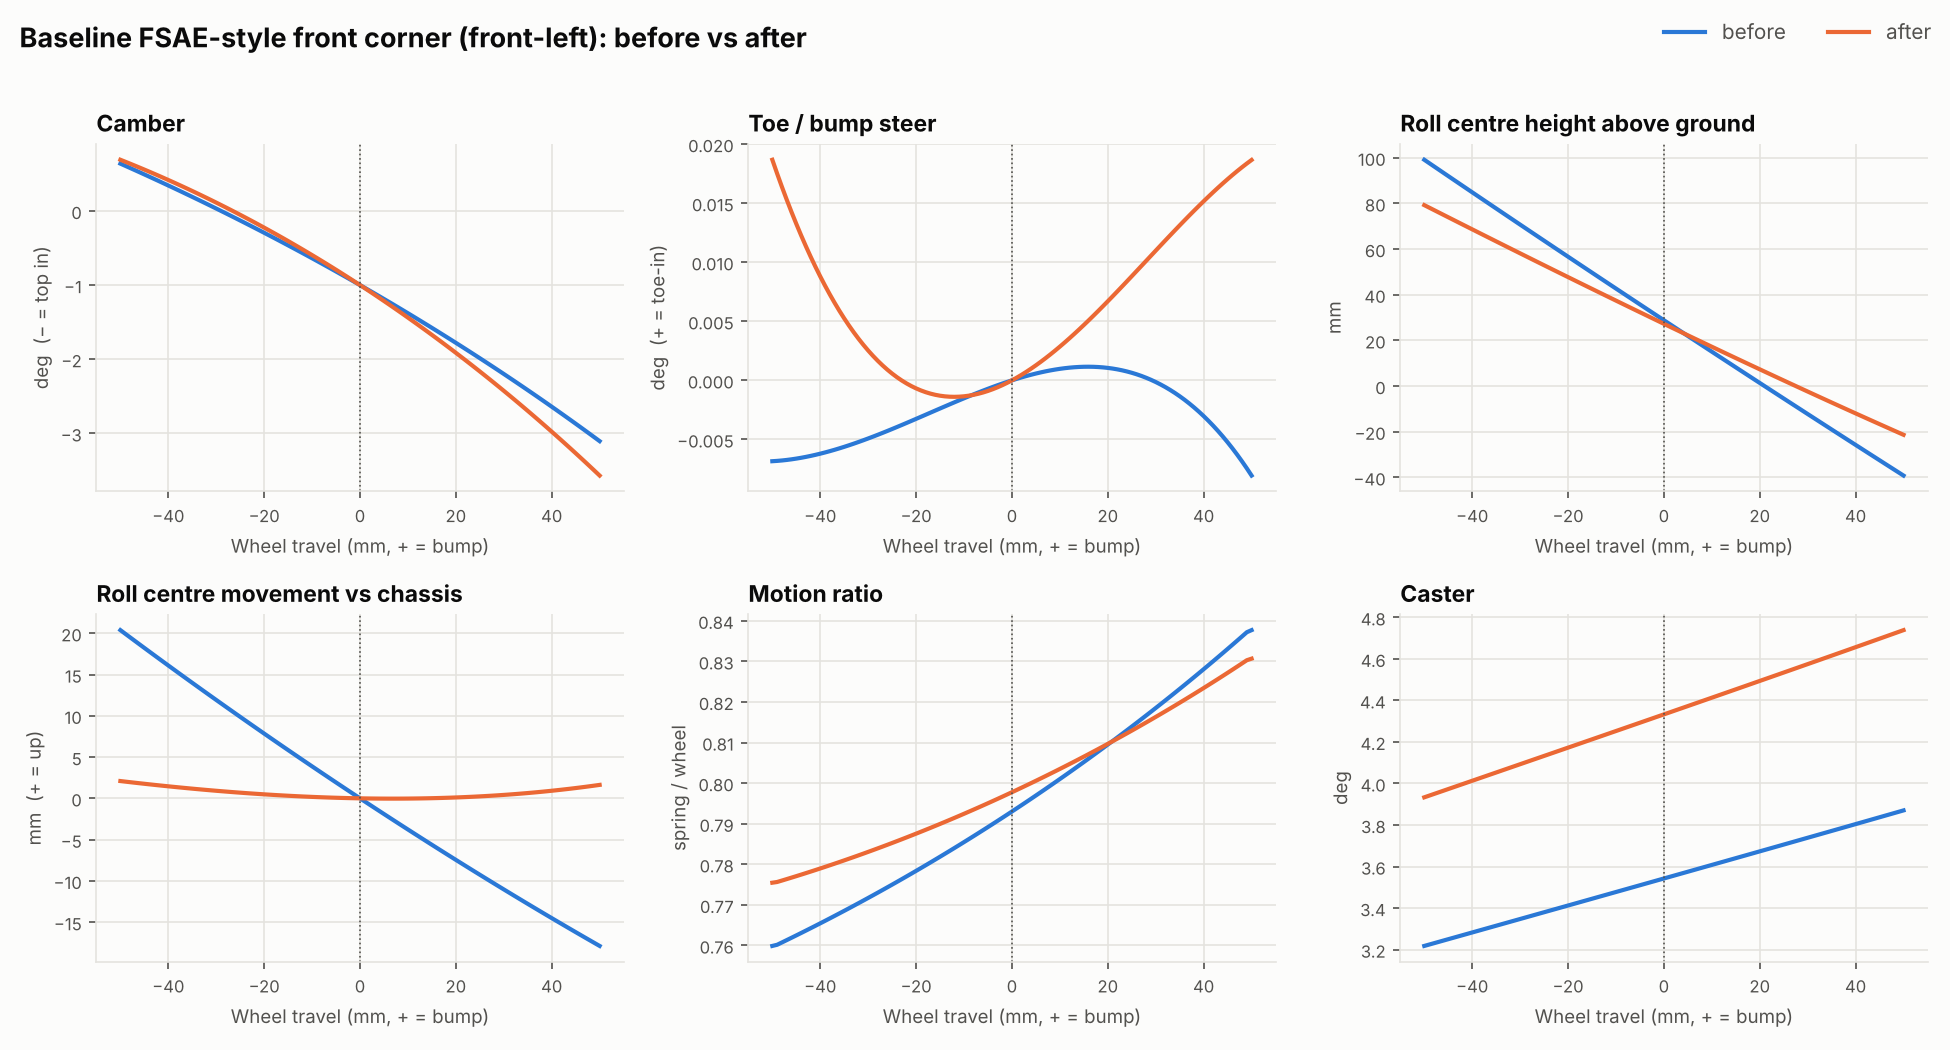
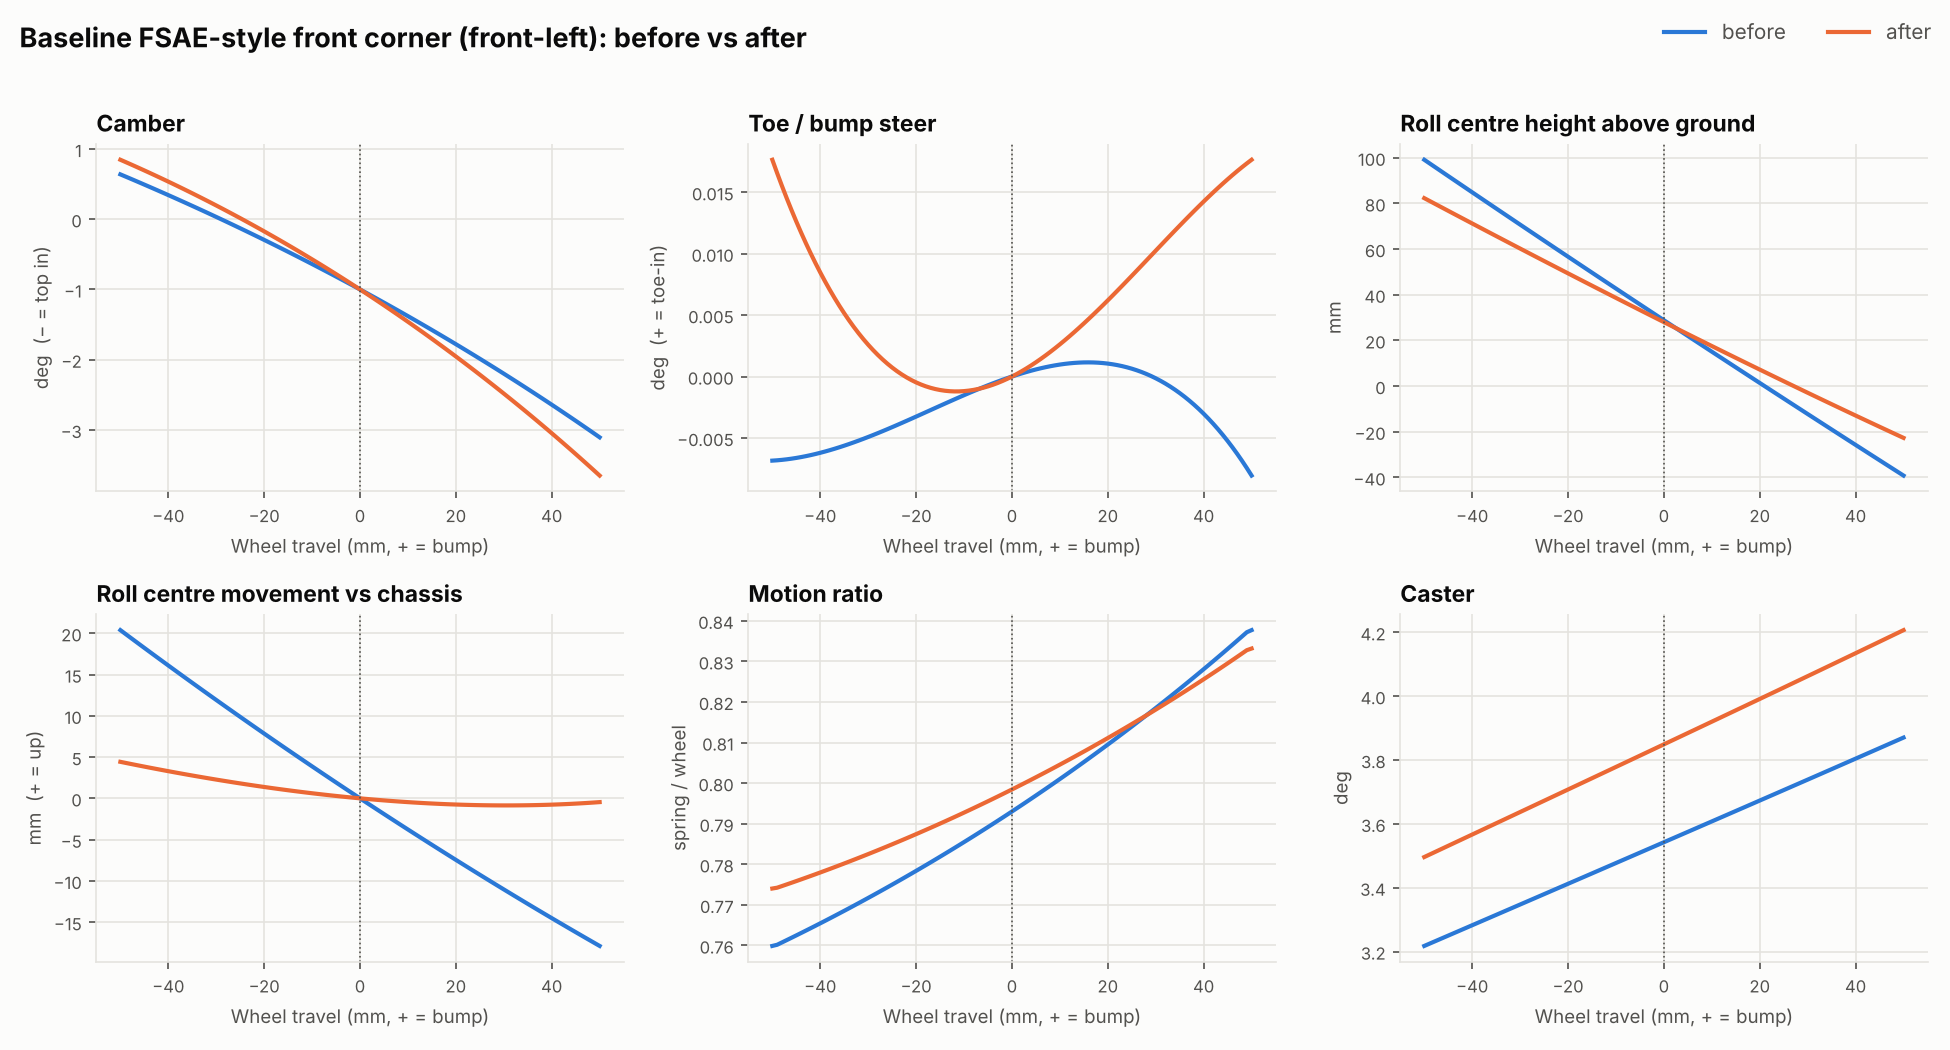
Add ball-joint spread and KPI as optimiser goals
Without them the optimiser squeezed the ball joints from 211 to 172 mm apart
and raised KPI to 6.6 deg. With them it keeps 195 mm and 5.9 deg, at the cost
of a little RC migration (-0.05 instead of -0.006 mm/mm).

Claude-Session: https://claude.ai/code/session_01998wzsqem21xBcstqe1hjg

diff --git a/solver/suspkin/optimize.py b/solver/suspkin/optimize.py
@@ -24,6 +24,10 @@ rc_migration        roll-centre movement RELATIVE TO THE CHASSIS per mm of wheel
 rc_height           static roll-centre height above the ground (mm)
 camber_gain         camber change per 10 mm of bump at ride height (deg/10 mm)
 bump_steer          toe range over the whole sweep (deg). Target 0.
+bj_spread           distance between the upper and lower ball joints (mm).
+                    Closer joints mean higher loads in the arms and joints.
+kpi                 static kingpin inclination (deg). More KPI means more
+                    camber change when steering and heavier steering.
 ==================  ===========================================================
 
 SLSQP is a *local* method: it walks downhill from the starting geometry and
@@ -46,7 +50,7 @@ from .metrics import compute_metrics, rc_migration
 from .packaging import packaging_margins
 
 AXES = {"x": 0, "y": 1, "z": 2}
-GOALS = ("rc_migration", "rc_height", "camber_gain", "bump_steer")
+GOALS = ("rc_migration", "rc_height", "camber_gain", "bump_steer", "bj_spread", "kpi")
 FAILED_SCORE = 1e6  # score for a geometry the solver can't assemble
 
 
@@ -112,6 +116,8 @@ def measure(hp: Hardpoints, travel_mm: float = 50.0, step_mm: float = 10.0) -> d
         "rc_height": float(m["roll_center_height_mm"][i0]),
         "camber_gain": float(10 * np.gradient(m["camber_deg"], t)[i0]),
         "bump_steer": float(np.ptp(m["toe_deg"])),
+        "bj_spread": float(np.linalg.norm(hp.upright["UBJ"] - hp.upright["LBJ"])),
+        "kpi": float(m["kpi_deg"][i0]),
     }
 
 

diff --git a/tests/test_optimize.py b/tests/test_optimize.py
@@ -83,8 +83,10 @@ def test_committed_optimised_geometry_is_better_and_fits(hp):
     cfg = OptimizeConfig.load(DATA / "optimize_front.json")
     opt = sk.load_hardpoints(DATA / "optimized_front.json")
     before, after = measure(hp), measure(opt)
-    assert abs(after["rc_migration"]) < 0.1 * abs(before["rc_migration"])
+    assert abs(after["rc_migration"]) < 0.2 * abs(before["rc_migration"])
     assert after["bump_steer"] < 0.05
+    assert after["bj_spread"] > 190  # ball joints didn't collapse together
+    assert after["kpi"] < 6.2
     assert all(c.ok for c in check_packaging(opt))
     from suspkin.optimize import score
     assert score(after, cfg.goals) < score(before, cfg.goals)

diff --git a/README.md b/README.md
@@ -136,10 +136,12 @@ symmetric car.
 
 | Goal | Meaning | Target | Baseline | Optimised |
 |---|---|---|---|---|
-| `rc_migration` | roll-centre movement relative to the chassis, per mm of travel | 0 | −0.38 | −0.006 |
-| `rc_height` | static roll-centre height (mm) | 30 | 28.8 | 27.2 |
-| `camber_gain` | camber change per 10 mm of bump (deg) | −0.40 | −0.37 | −0.42 |
-| `bump_steer` | toe change over ±50 mm (deg) | 0 | 0.009 | 0.020 |
+| `rc_migration` | roll-centre movement relative to the chassis, per mm of travel | 0 | −0.38 | −0.05 |
+| `rc_height` | static roll-centre height (mm) | 30 | 28.8 | 28.0 |
+| `camber_gain` | camber change per 10 mm of bump (deg) | −0.40 | −0.37 | −0.45 |
+| `bump_steer` | toe change over ±50 mm (deg) | 0 | 0.009 | 0.019 |
+| `bj_spread` | distance between the ball joints (mm), for joint and arm loads | 210 | 211 | 195 |
+| `kpi` | kingpin inclination (deg) | 5.5 | 5.4 | 5.9 |
 
 **Why roll-centre movement is measured against the chassis.** The centre of
 gravity rides on the chassis. If the roll centre stays put on the chassis, the
@@ -155,14 +157,17 @@ fixed roll centre "drops" 1 mm per mm of bump, which is why the
   one possible. Different bounds or a different starting design can give a
   different answer.
 * "Iteration limit reached" just means it used its full 100-iteration budget.
-  The score had already dropped from 235 to 0.65.
+  The score had already dropped from 235 to about 10.
 * Variables that finish **at a bound** are printed with a marker. The
   optimiser wanted to go further, so think about whether that bound is real
   (packaging, chassis tubes) or can be widened.
-* It only knows about the goals you give it. In this run the ball joints moved
-  closer together (210 → 172 mm apart), which raises the loads in the arms and
-  joints, and KPI grew from 5.4° to 6.6°. Neither was a goal, so check the
-  full `suspkin sweep` output of the result before trusting it.
+* It only knows about the goals you give it, and goals pull against each
+  other. Without the `bj_spread` and `kpi` goals, the same run cut RC
+  migration to −0.006 but squeezed the ball joints from 211 to 172 mm apart
+  and raised KPI to 6.6°. With them it settles at −0.05 with the joints
+  195 mm apart. The upper ball joint is already against the rim, so the
+  lower one is the only joint that can move, and lowering it fights the RC
+  goal. The weights decide where that balance lands.
 
 ## Working on more than one PC
 
@@ -200,7 +205,7 @@ Tips:
 
 - [x] **Phase 1:** repo scaffold, baseline hardpoints, bump sweep, camber/toe and other metrics, tests
 - [x] **Phase 2:** optimisation, nudging chosen hardpoints to hit targets (camber gain, bump steer, roll centre height and migration) within 10" rim packaging limits
-- [ ] Optimiser goals for ball-joint spread, KPI and scrub, so they can't drift unnoticed
+- [ ] Optimiser goal for scrub radius and mechanical trail
 - [ ] Steering sweep and Ackermann percentage
 - [ ] Pushrod and rocker stage (motion ratio through the rocker)
 - [ ] Anti-dive / anti-squat (side-view geometry)
